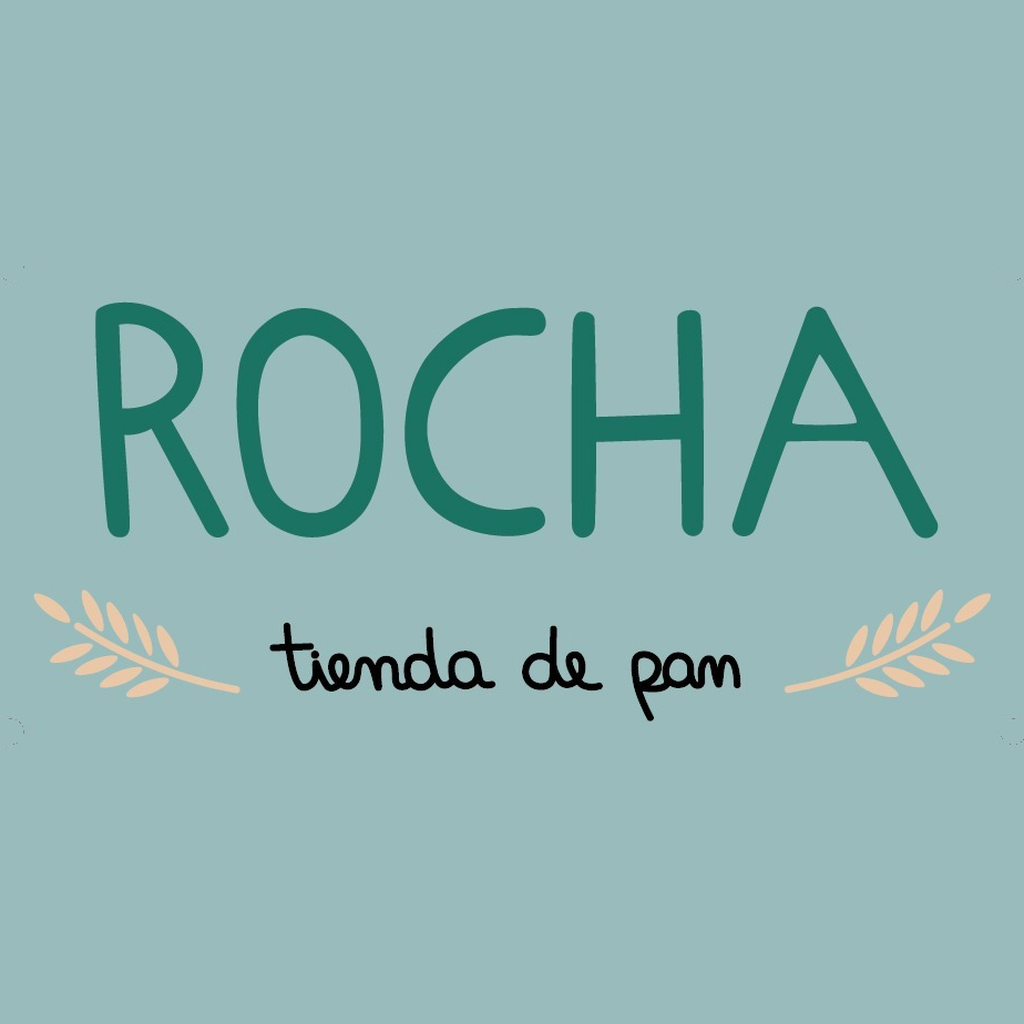
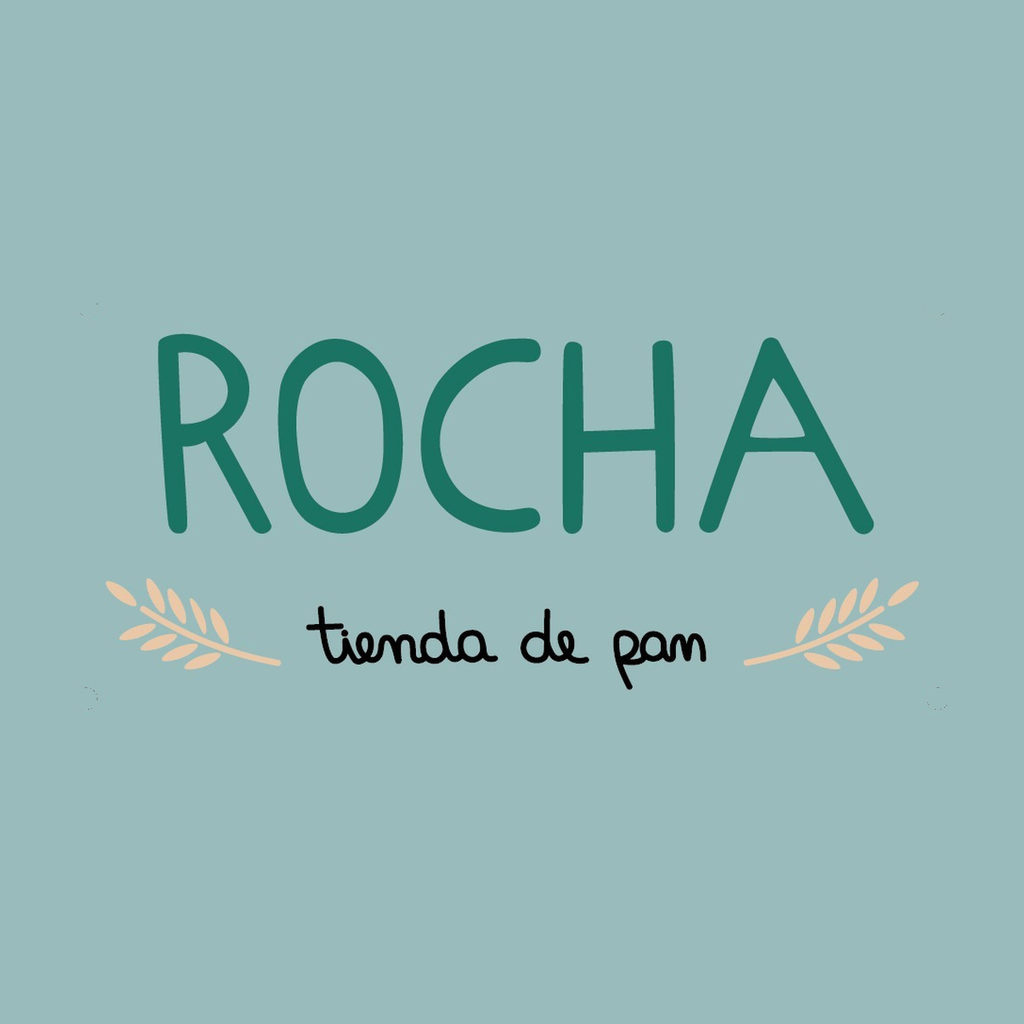
fix(brand): ease mark crop and remito inset
Prior 1.25x crop left lettering flush to teal edges. Letterbox
content to 85% and bump remito card padding p-6→p-7 for room
closer to the old brown mark feel.

Changed region(s): [[0.0938, 0.2812, 0.9375, 0.5312], [0.0312, 0.5625, 0.9688, 0.7188]]

diff --git a/src/app/remitos/[id]/page.tsx b/src/app/remitos/[id]/page.tsx
@@ -205,7 +205,7 @@ export default async function RemitoDetailPage({
         <WhatsAppNotifyButton whatsappUrl={notifyWhatsappUrl} autoOpen />
       ) : null}
 
-      <article className="print-remito rounded-lg border border-neutral-200 bg-white p-6 shadow-sm">
+      <article className="print-remito rounded-lg border border-neutral-200 bg-white p-7 shadow-sm">
         <header className="mb-6 flex flex-wrap items-start justify-between gap-4 border-b border-neutral-200 pb-4">
           <div>
             <BrandLogo size="md" priority className="print:h-24 print:w-24" />
